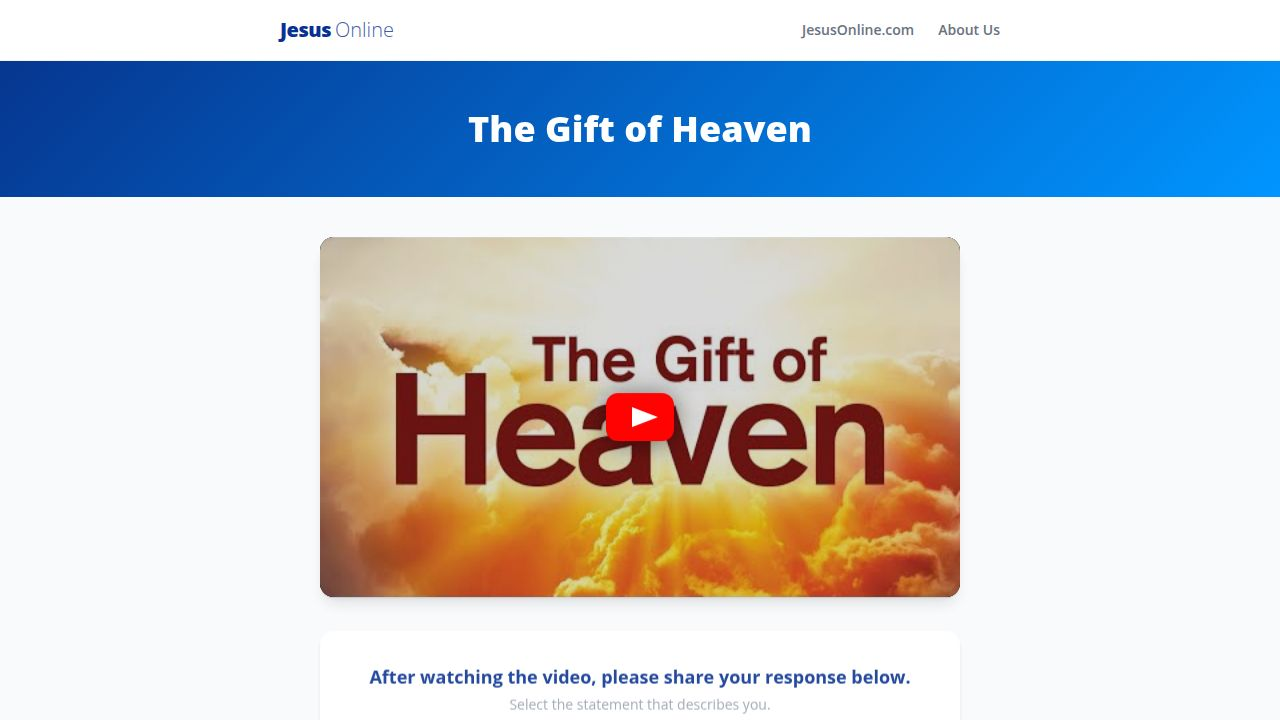
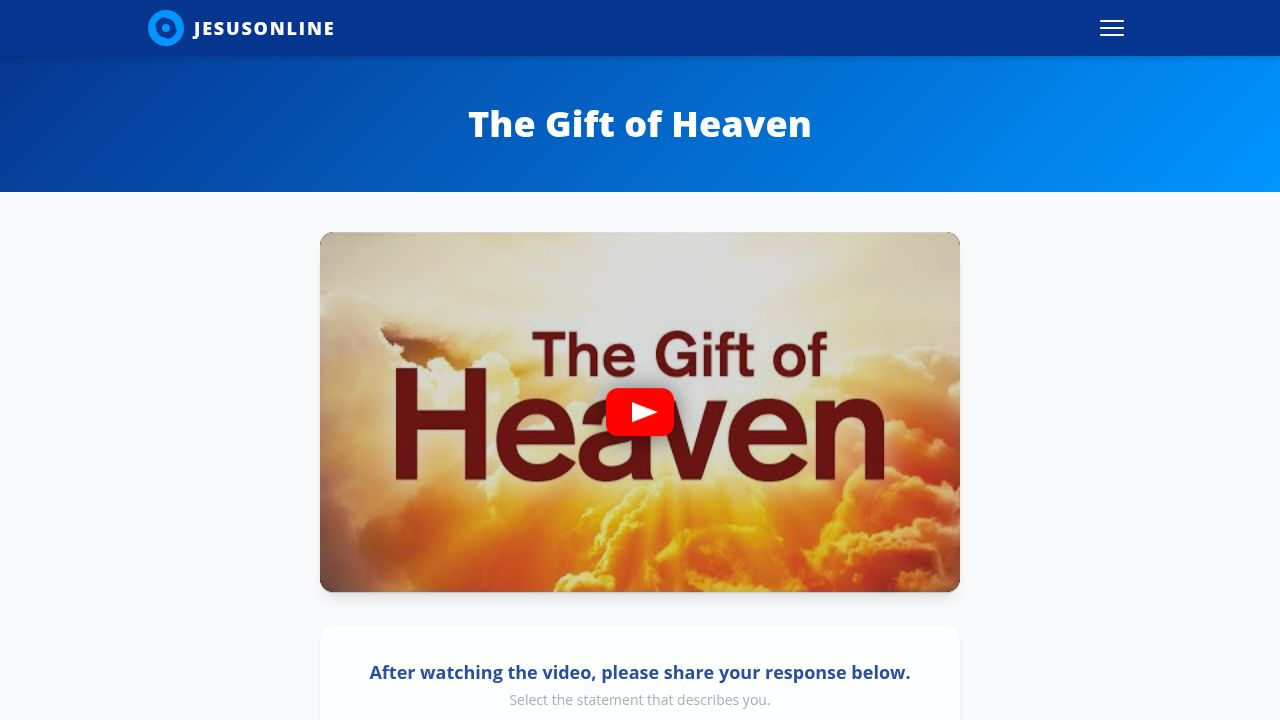
Update website navigation to a persistent hamburger menu with a matching design
Replace existing header components with a unified `SiteNav` component, implementing a persistent hamburger menu and replicating the visual style of jesusonline.com, including a custom SVG logo.

Replit-Commit-Author: Agent
Replit-Commit-Session-Id: 036a7ebf-addc-488c-864d-023fbffe482b
Replit-Commit-Checkpoint-Type: full_checkpoint
Replit-Commit-Event-Id: d7d21727-2028-4cf7-9d21-25cc5b38886d
Replit-Commit-Screenshot-Url: https://storage.googleapis.com/screenshot-production-us-central1/5f11af9c-a93f-4b61-ac10-190e6d08ea23/036a7ebf-addc-488c-864d-023fbffe482b/ez9FNoy
Replit-Helium-Checkpoint-Created: true

diff --git a/artifacts/jesusonline-org/src/components/layout/SiteNav.tsx b/artifacts/jesusonline-org/src/components/layout/SiteNav.tsx
@@ -1,0 +1,133 @@
+import { useState, useEffect } from "react";
+
+const NAV_LINKS = [
+  { label: "Discover Evidence",    href: "https://jesusonline.com/discover-evidence/" },
+  { label: "Meet Jesus",           href: "https://jesusonline.com/meet-jesus/" },
+  { label: "Follow Jesus",         href: "https://jesusonline.com/follow-jesus/" },
+  { label: "Find Hope & Love",     href: "https://jesusonline.com/find-hope-and-love/" },
+  { label: "Translate & Resources",href: "https://jesusonline.com/translate-resources/" },
+];
+
+function JoloIcon() {
+  return (
+    <svg width="36" height="36" viewBox="0 0 36 36" fill="none" xmlns="http://www.w3.org/2000/svg" aria-hidden="true">
+      <circle cx="18" cy="18" r="18" fill="#0095FF" />
+      <circle cx="18" cy="18" r="11" fill="#063690" />
+      <circle cx="18" cy="18" r="4" fill="#0095FF" />
+      <path
+        d="M18 7 A11 11 0 0 1 29 18"
+        stroke="#0095FF"
+        strokeWidth="2.5"
+        strokeLinecap="round"
+        fill="none"
+      />
+      <path
+        d="M18 29 A11 11 0 0 1 7 18"
+        stroke="#0095FF"
+        strokeWidth="2.5"
+        strokeLinecap="round"
+        fill="none"
+      />
+    </svg>
+  );
+}
+
+interface SiteNavProps {
+  logoHref: string;
+}
+
+export function SiteNav({ logoHref }: SiteNavProps) {
+  const [open, setOpen] = useState(false);
+
+  useEffect(() => {
+    if (open) {
+      document.body.style.overflow = "hidden";
+    } else {
+      document.body.style.overflow = "";
+    }
+    return () => { document.body.style.overflow = ""; };
+  }, [open]);
+
+  useEffect(() => {
+    const onKey = (e: KeyboardEvent) => { if (e.key === "Escape") setOpen(false); };
+    window.addEventListener("keydown", onKey);
+    return () => window.removeEventListener("keydown", onKey);
+  }, []);
+
+  return (
+    <>
+      <header style={{ background: "#063690" }} className="w-full sticky top-0 z-40 shadow-md">
+        <div className="max-w-5xl mx-auto px-5 h-14 flex items-center justify-between">
+          <a
+            href={logoHref}
+            target="_blank"
+            rel="noopener noreferrer"
+            className="flex items-center gap-2.5 focus-visible:outline-2 focus-visible:outline-white rounded"
+            aria-label="JesusOnline — go to main site"
+          >
+            <JoloIcon />
+            <span className="text-white font-extrabold text-lg tracking-widest uppercase leading-none select-none">
+              JesusOnline
+            </span>
+          </a>
+
+          <button
+            onClick={() => setOpen((v) => !v)}
+            aria-expanded={open}
+            aria-controls="site-nav-drawer"
+            aria-label={open ? "Close menu" : "Open menu"}
+            className="flex flex-col justify-center items-center w-10 h-10 gap-[5px] rounded focus-visible:outline-2 focus-visible:outline-white"
+          >
+            <span
+              style={{ background: "white" }}
+              className={`block h-0.5 w-6 rounded-full transition-all duration-200 origin-center ${open ? "rotate-45 translate-y-[7px]" : ""}`}
+            />
+            <span
+              style={{ background: "white" }}
+              className={`block h-0.5 w-6 rounded-full transition-all duration-200 ${open ? "opacity-0 scale-x-0" : ""}`}
+            />
+            <span
+              style={{ background: "white" }}
+              className={`block h-0.5 w-6 rounded-full transition-all duration-200 origin-center ${open ? "-rotate-45 -translate-y-[7px]" : ""}`}
+            />
+          </button>
+        </div>
+      </header>
+
+      {open && (
+        <div
+          className="fixed inset-0 z-30"
+          style={{ background: "rgba(6,54,144,0.25)" }}
+          onClick={() => setOpen(false)}
+          aria-hidden="true"
+        />
+      )}
+
+      <nav
+        id="site-nav-drawer"
+        role="navigation"
+        aria-label="Site navigation"
+        style={{ background: "#063690", top: "56px" }}
+        className={`fixed left-0 right-0 z-30 shadow-xl transition-all duration-200 ease-out overflow-hidden ${
+          open ? "max-h-[400px] opacity-100" : "max-h-0 opacity-0 pointer-events-none"
+        }`}
+      >
+        <ul className="max-w-5xl mx-auto px-5 py-4 flex flex-col divide-y divide-white/10">
+          {NAV_LINKS.map((link) => (
+            <li key={link.href}>
+              <a
+                href={link.href}
+                target="_blank"
+                rel="noopener noreferrer"
+                onClick={() => setOpen(false)}
+                className="block py-3.5 text-white font-semibold text-base tracking-wide hover:text-[#0095FF] transition-colors focus-visible:outline-2 focus-visible:outline-white"
+              >
+                {link.label}
+              </a>
+            </li>
+          ))}
+        </ul>
+      </nav>
+    </>
+  );
+}

diff --git a/artifacts/jesusonline-org/src/components/layout/XPHeader.tsx b/artifacts/jesusonline-org/src/components/layout/XPHeader.tsx
@@ -1,38 +1,5 @@
+import { SiteNav } from "./SiteNav";
+
 export function XPHeader() {
-  return (
-    <header className="w-full bg-white border-b border-gray-100 shadow-sm">
-      <div className="max-w-3xl mx-auto px-6 py-4 flex items-center justify-between">
-        <a
-          href="https://app.jesusonline.com/home"
-          target="_blank"
-          rel="noopener noreferrer"
-          className="flex items-center gap-1"
-          data-testid="xp-logo"
-        >
-          <span className="text-xl font-extrabold text-secondary tracking-tight">Jesus</span>
-          <span className="text-xl font-light text-secondary/80">Online</span>
-        </a>
-        <nav className="flex items-center gap-6 text-sm">
-          <a
-            href="https://app.jesusonline.com/home"
-            target="_blank"
-            rel="noopener noreferrer"
-            className="text-gray-500 hover:text-primary transition-colors font-semibold"
-            data-testid="xp-nav-app"
-          >
-            Open the App
-          </a>
-          <a
-            href="https://app.jesusonline.com/find-what-you-want"
-            target="_blank"
-            rel="noopener noreferrer"
-            className="btn-primary text-sm !py-2 !px-5"
-            data-testid="xp-nav-explore"
-          >
-            Explore
-          </a>
-        </nav>
-      </div>
-    </header>
-  );
+  return <SiteNav logoHref="https://app.jesusonline.com/home" />;
 }

diff --git a/artifacts/jesusonline-org/src/components/layout/LPHeader.tsx b/artifacts/jesusonline-org/src/components/layout/LPHeader.tsx
@@ -1,38 +1,5 @@
+import { SiteNav } from "./SiteNav";
+
 export function LPHeader() {
-  return (
-    <header className="w-full bg-white border-b border-gray-100 shadow-sm">
-      <div className="max-w-3xl mx-auto px-6 py-4 flex items-center justify-between">
-        <a
-          href="https://jesusonline.com"
-          target="_blank"
-          rel="noopener noreferrer"
-          className="flex items-center gap-1"
-          data-testid="lp-logo"
-        >
-          <span className="text-xl font-extrabold text-secondary tracking-tight">Jesus</span>
-          <span className="text-xl font-light text-secondary/80">Online</span>
-        </a>
-        <nav className="flex items-center gap-6 text-sm">
-          <a
-            href="https://jesusonline.com"
-            target="_blank"
-            rel="noopener noreferrer"
-            className="text-gray-500 hover:text-primary transition-colors font-semibold"
-            data-testid="lp-nav-home"
-          >
-            JesusOnline.com
-          </a>
-          <a
-            href="https://jesusonline.com/about-us/"
-            target="_blank"
-            rel="noopener noreferrer"
-            className="text-gray-500 hover:text-primary transition-colors font-semibold"
-            data-testid="lp-nav-about"
-          >
-            About Us
-          </a>
-        </nav>
-      </div>
-    </header>
-  );
+  return <SiteNav logoHref="https://jesusonline.com" />;
 }
